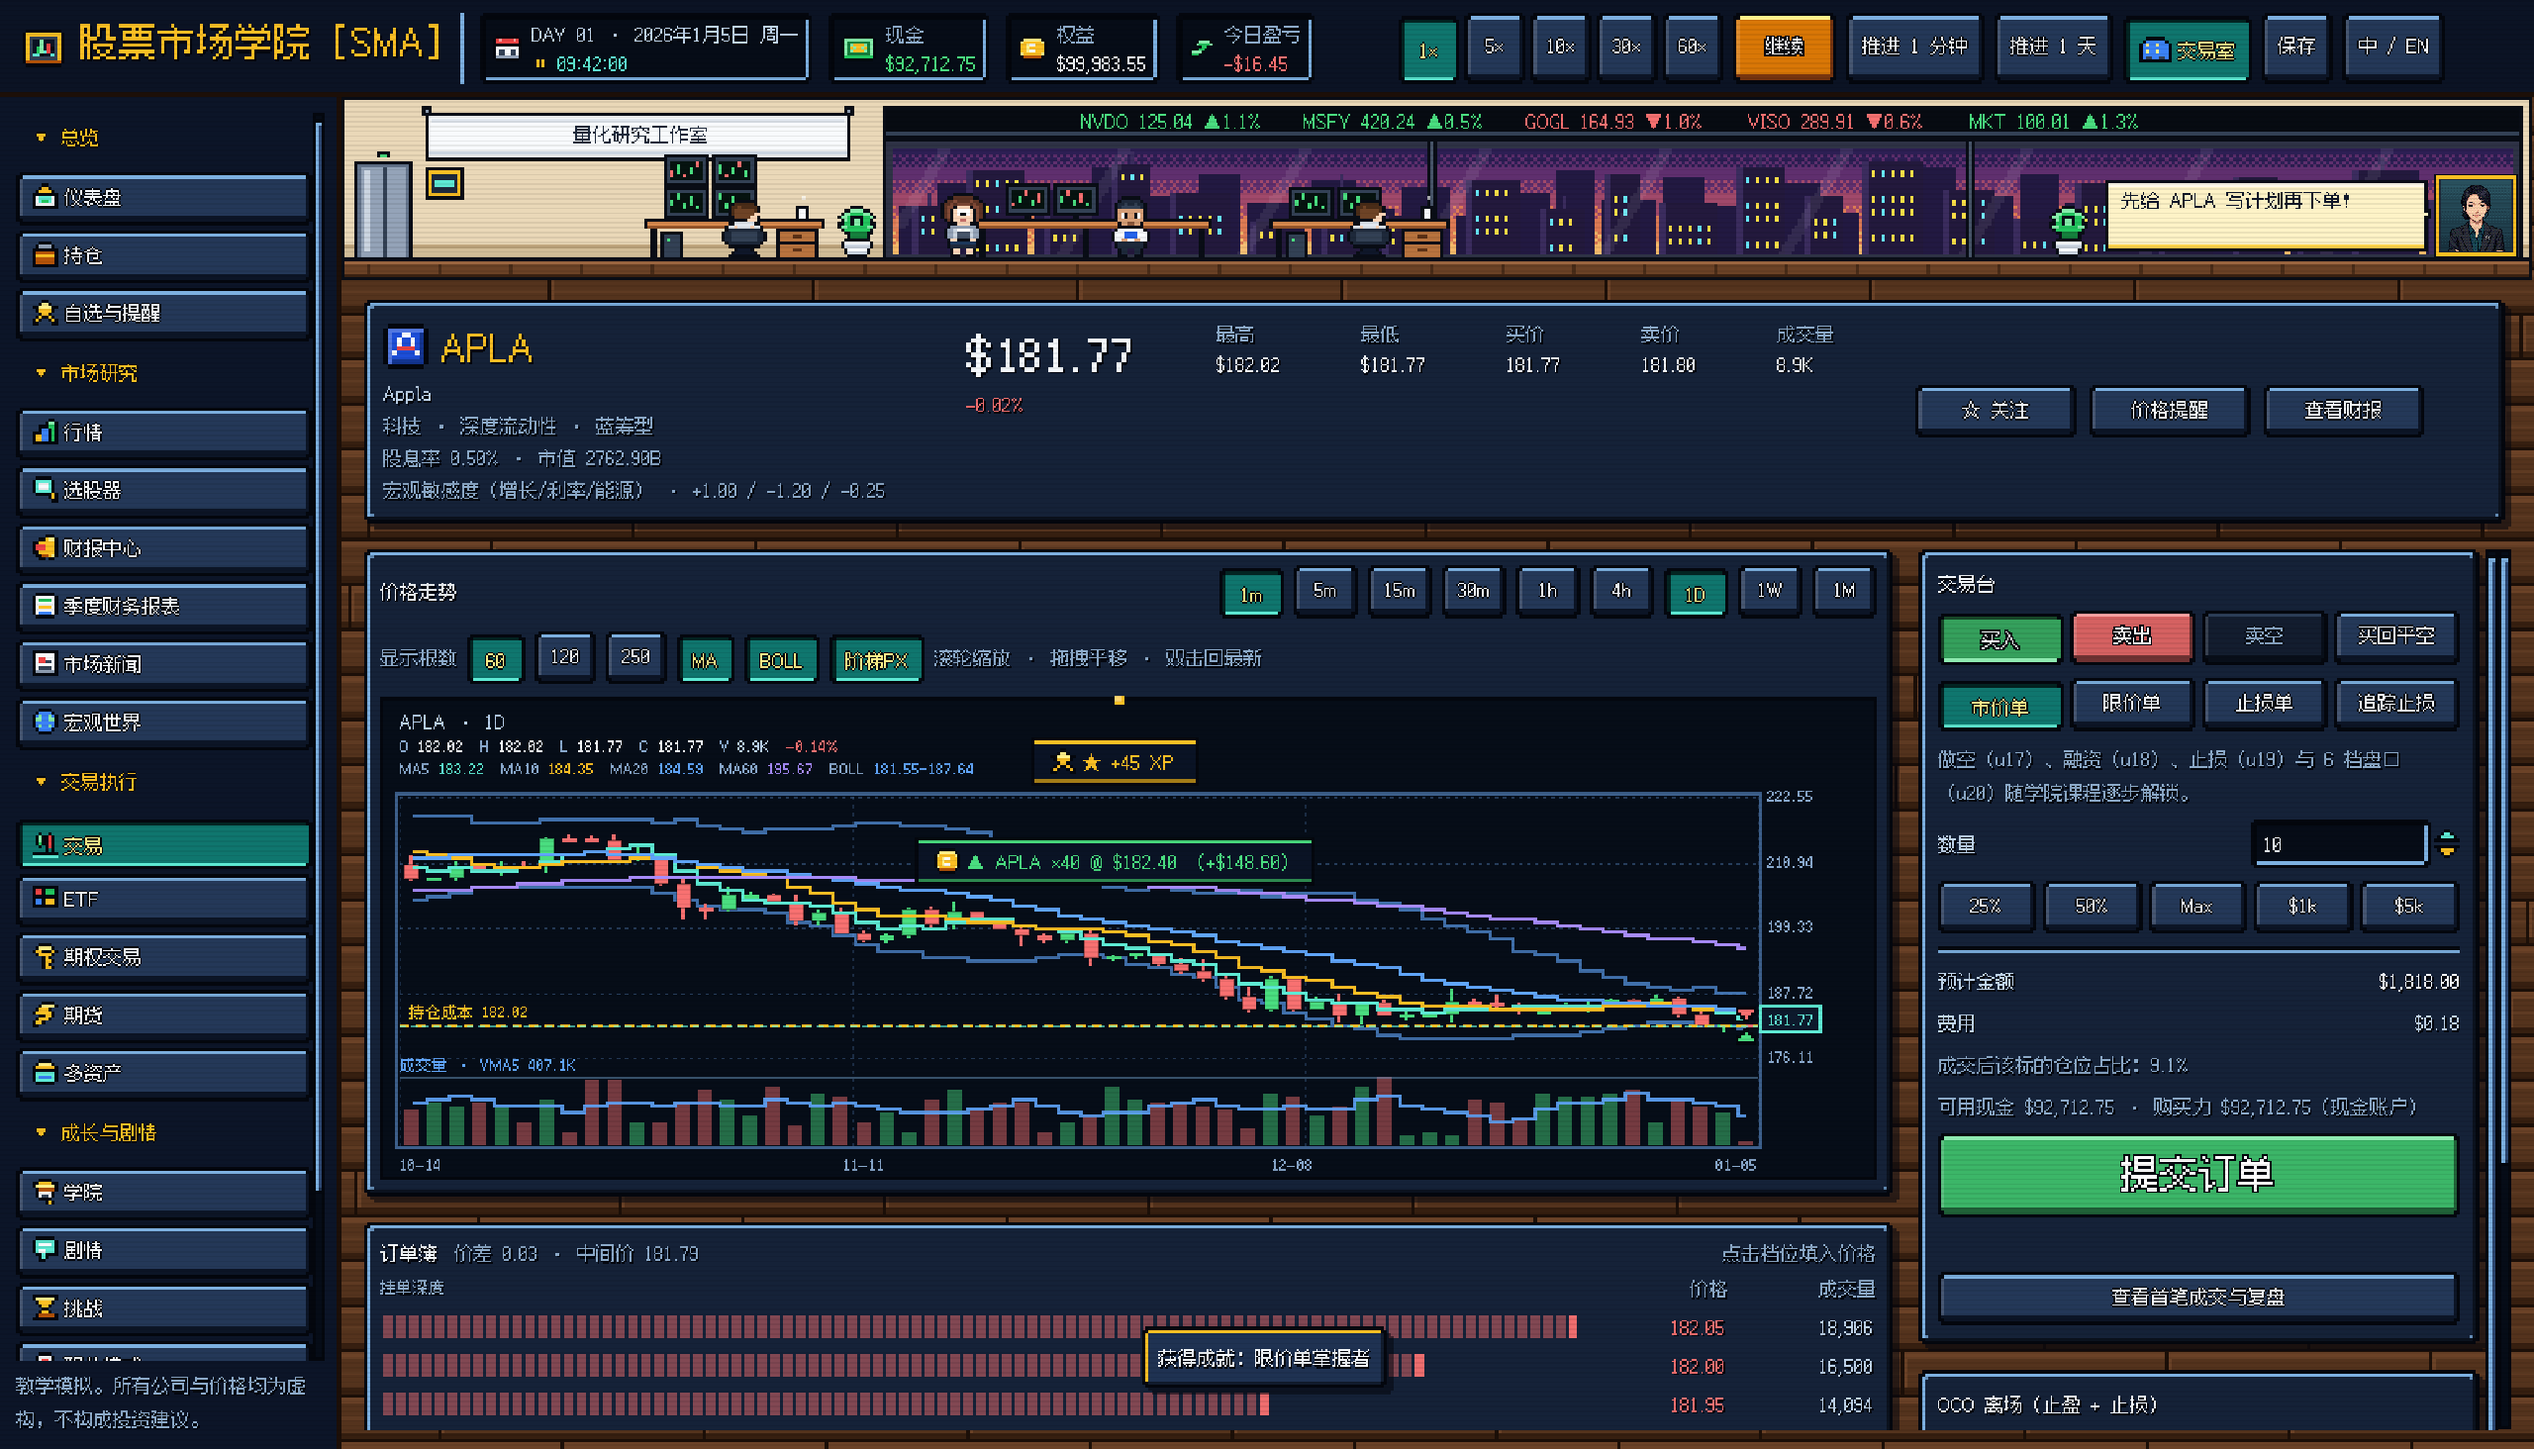
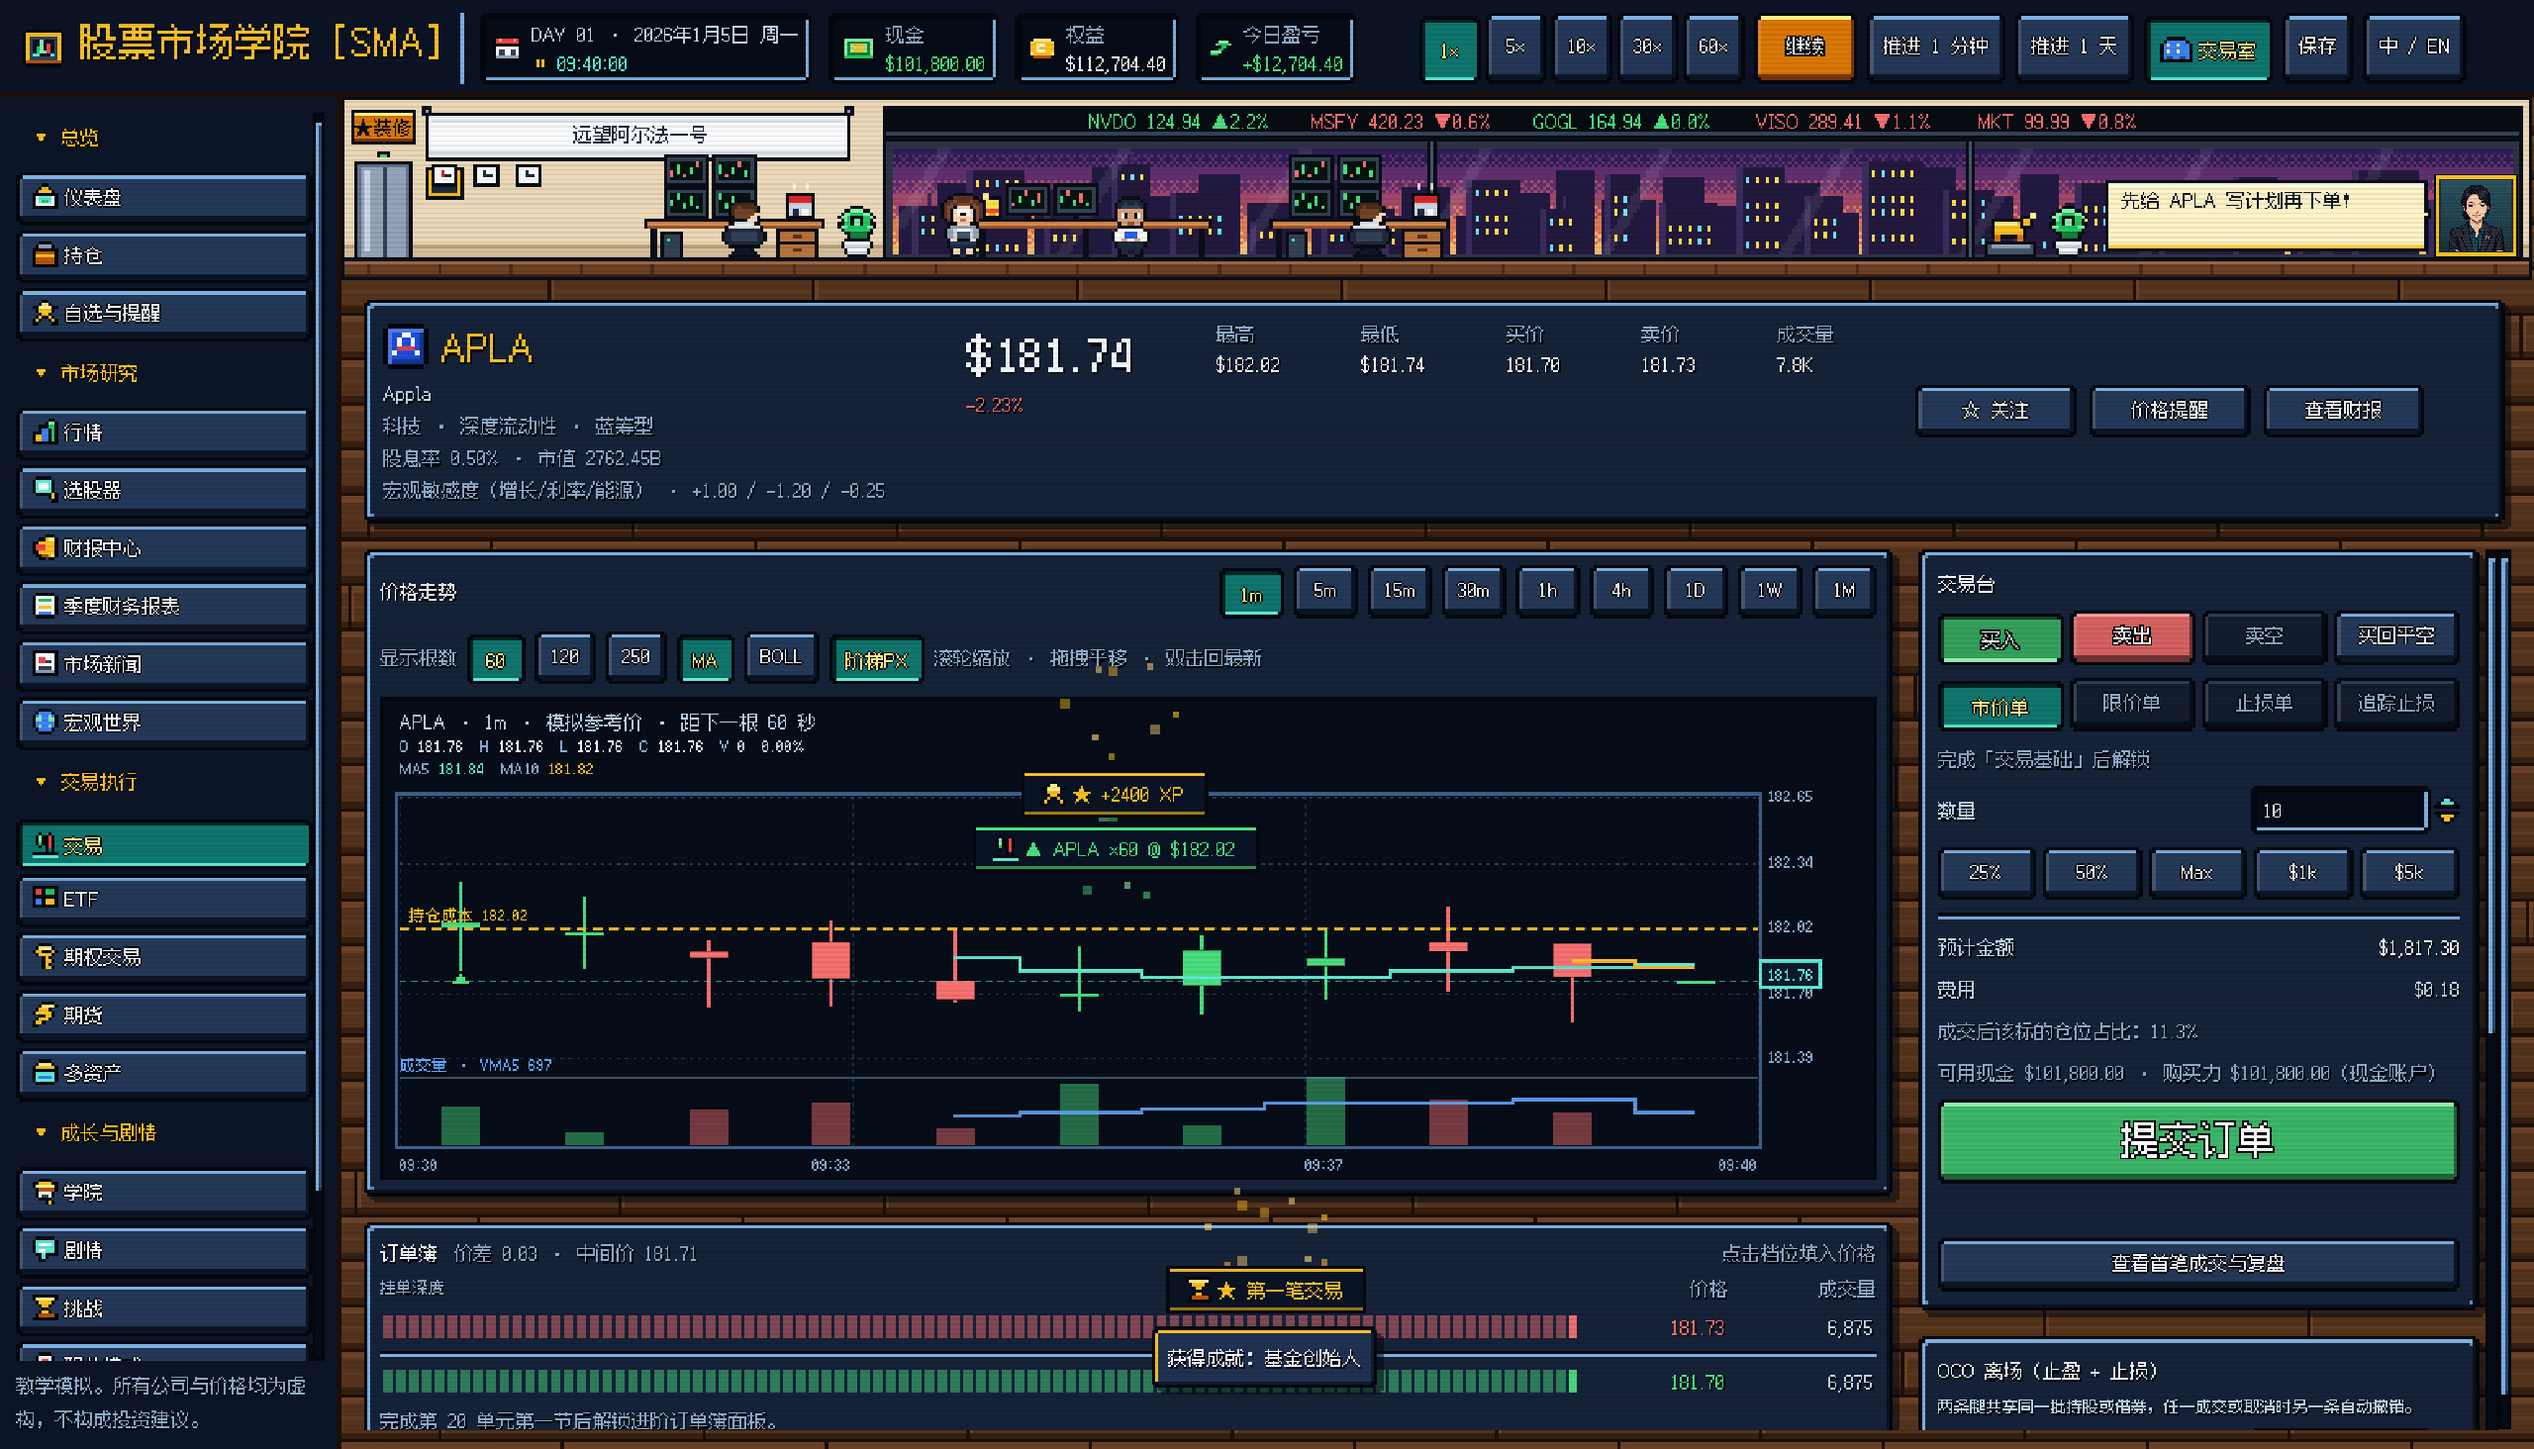
chore(release): add automated GitHub Release workflow and showcase beta-12/13 screenshots in README

diff --git a/README.en.md b/README.en.md
@@ -32,9 +32,10 @@ After reviewing your first trade, open **Opening Gap** from the dashboard. Make 
 | Academy | 32 core units (core + 4 parallel tracks, 85% placement test-out) + 6 branch units = 38 units |
 | Academy stages | 8 |
 | Glossary | 85 terms |
-| Story & Campaigns | 16 stories, 36 triggers, 7 main characters + playable Opening Gap & Black Friday crisis campaigns |
-| Challenges | 14 goal-based trading challenges |
-| Achievements | 30 |
+| Story & Campaigns | 16 stories, 36 triggers, 7 animated PC-98 pixel characters + playable Opening Gap & Black Friday crisis campaigns |
+| Challenges & Daily Sprint | 14 goal-based challenges + **Daily Same-Seed 10-Day Sprint** with risk-adjusted leaderboard |
+| Pixel Office Renovation | Zero-ledger-impact `RP` workshop (6 toggleable pixel props) + 7 hired fund specialist roles stationed live on the trading floor |
+| Achievements & Posters | 30 achievements + 1-click **16-Bit Gold-Rimmed Pixel Diploma / Battle Poster PNG** export |
 | Career ranks | 8 |
 | Fund roles | 7 |
 | History lab | 4 real daily-bar scenarios |
@@ -47,9 +48,25 @@ The default seed is `academy-2026` and the default starting cash is **USD 100,00
 
 ## Screenshots
 
-### Trading Desk (Kairosoft Oak Desk × CRT Pixel Hybrid — Default Style A+B)
+### Trading Desk & Upgraded Pixel Floor (Kairosoft Oak Desk × CRT Pixel Hybrid — Default Style A+B)
 
 ![Trading desk](docs/screenshots/trade.png)
+
+### Kairosoft Pixel Desk Renovation Workshop & Specialist Roster
+
+![Pixel Renovation Workshop](docs/screenshots/renovation_shop.png)
+
+### 16-Bit Gold-Rimmed Pixel Diploma & Battle Poster (1-Click PNG Export)
+
+![Pixel Diploma Poster](docs/screenshots/diploma_poster.png)
+
+### Daily Same-Seed 10-Day Sprint & Personal Best Leaderboard
+
+![Daily Seed Sprint](docs/screenshots/daily_sprint.png)
+
+### Animated PC-98 Character Portraits (Blinking, Lip-Sync & Pixel Emote Badges)
+
+![Animated PC-98 Portrait Dialogue](docs/screenshots/portrait_anim.png)
 
 ### Kairosoft Warm Cream Parchment Pixel Palette (Style B)
 

diff --git a/README.md b/README.md
@@ -51,9 +51,10 @@
 | 学院课程 | 32 个核心单元（主干 + 4 条并行轨道，支持 85% 跳级考核）+ 6 个分支单元，共 38 个单元 |
 | 课程阶段 | 8 个阶段 |
 | 金融词典 | 85 个词条 |
-| 剧情与可玩战役 | 16 段剧情、36 条触发器、7 位主要角色 +《跳空开盘》《黑色星期五》双可玩情景战役 |
-| 交易挑战 | 14 个目标型挑战 |
-| 学习/交易/职业成就 | 30 个 |
+| 剧情与可玩战役 | 16 段剧情、36 条触发器、7 位动态微动画像素立绘角色 +《跳空开盘》《黑色星期五》双可玩情景战役 |
+| 交易挑战与每日速通 | 14 个目标型挑战 + **每日同种子 10 日速通赛（Daily Seed Sprint）**与本地最佳风控总分榜 |
+| 像素交易室养成 | 零本金干扰 `RP` 装修工坊（6 款像素摆件自由开关）+ 7 类已雇佣基金专员小人实时入驻窗前工位 |
+| 荣誉与战报分享 | 30 个成就 + 一键生成 **16-Bit 金边像素毕业证书 / 战报海报 PNG** |
 | 职业等级 | 8 级 |
 | 基金管理角色 | 7 种 |
 | 历史实验室 | 4 个真实日线场景 |
@@ -66,9 +67,25 @@
 
 ## 界面预览
 
-### 交易台（开罗橡木桌 × CRT 阶梯像素均线 · 默认 A+B 融合）
+### 交易台与满配像素交易大厅（开罗橡木桌 × CRT 阶梯像素均线 · 默认 A+B 融合）
 
 ![交易台](docs/screenshots/trade.png)
+
+### 开罗风像素交易室装修工坊与专员名册
+
+![像素装修工坊](docs/screenshots/renovation_shop.png)
+
+### 16-Bit 金边像素毕业证书 / 战报海报（一键导出高清 PNG）
+
+![像素毕业证书海报](docs/screenshots/diploma_poster.png)
+
+### 每日同种子 10 日速通挑战赛（Daily Seed Sprint）与排行榜
+
+![每日同种子速通挑战](docs/screenshots/daily_sprint.png)
+
+### PC-98 角色立绘实时微动画（眨眼 / 说话口型 / 情绪像素角标）
+
+![PC-98 动态立绘对话](docs/screenshots/portrait_anim.png)
 
 ### 开罗暖阳羊皮纸像素配色（纯 B 风）
 
